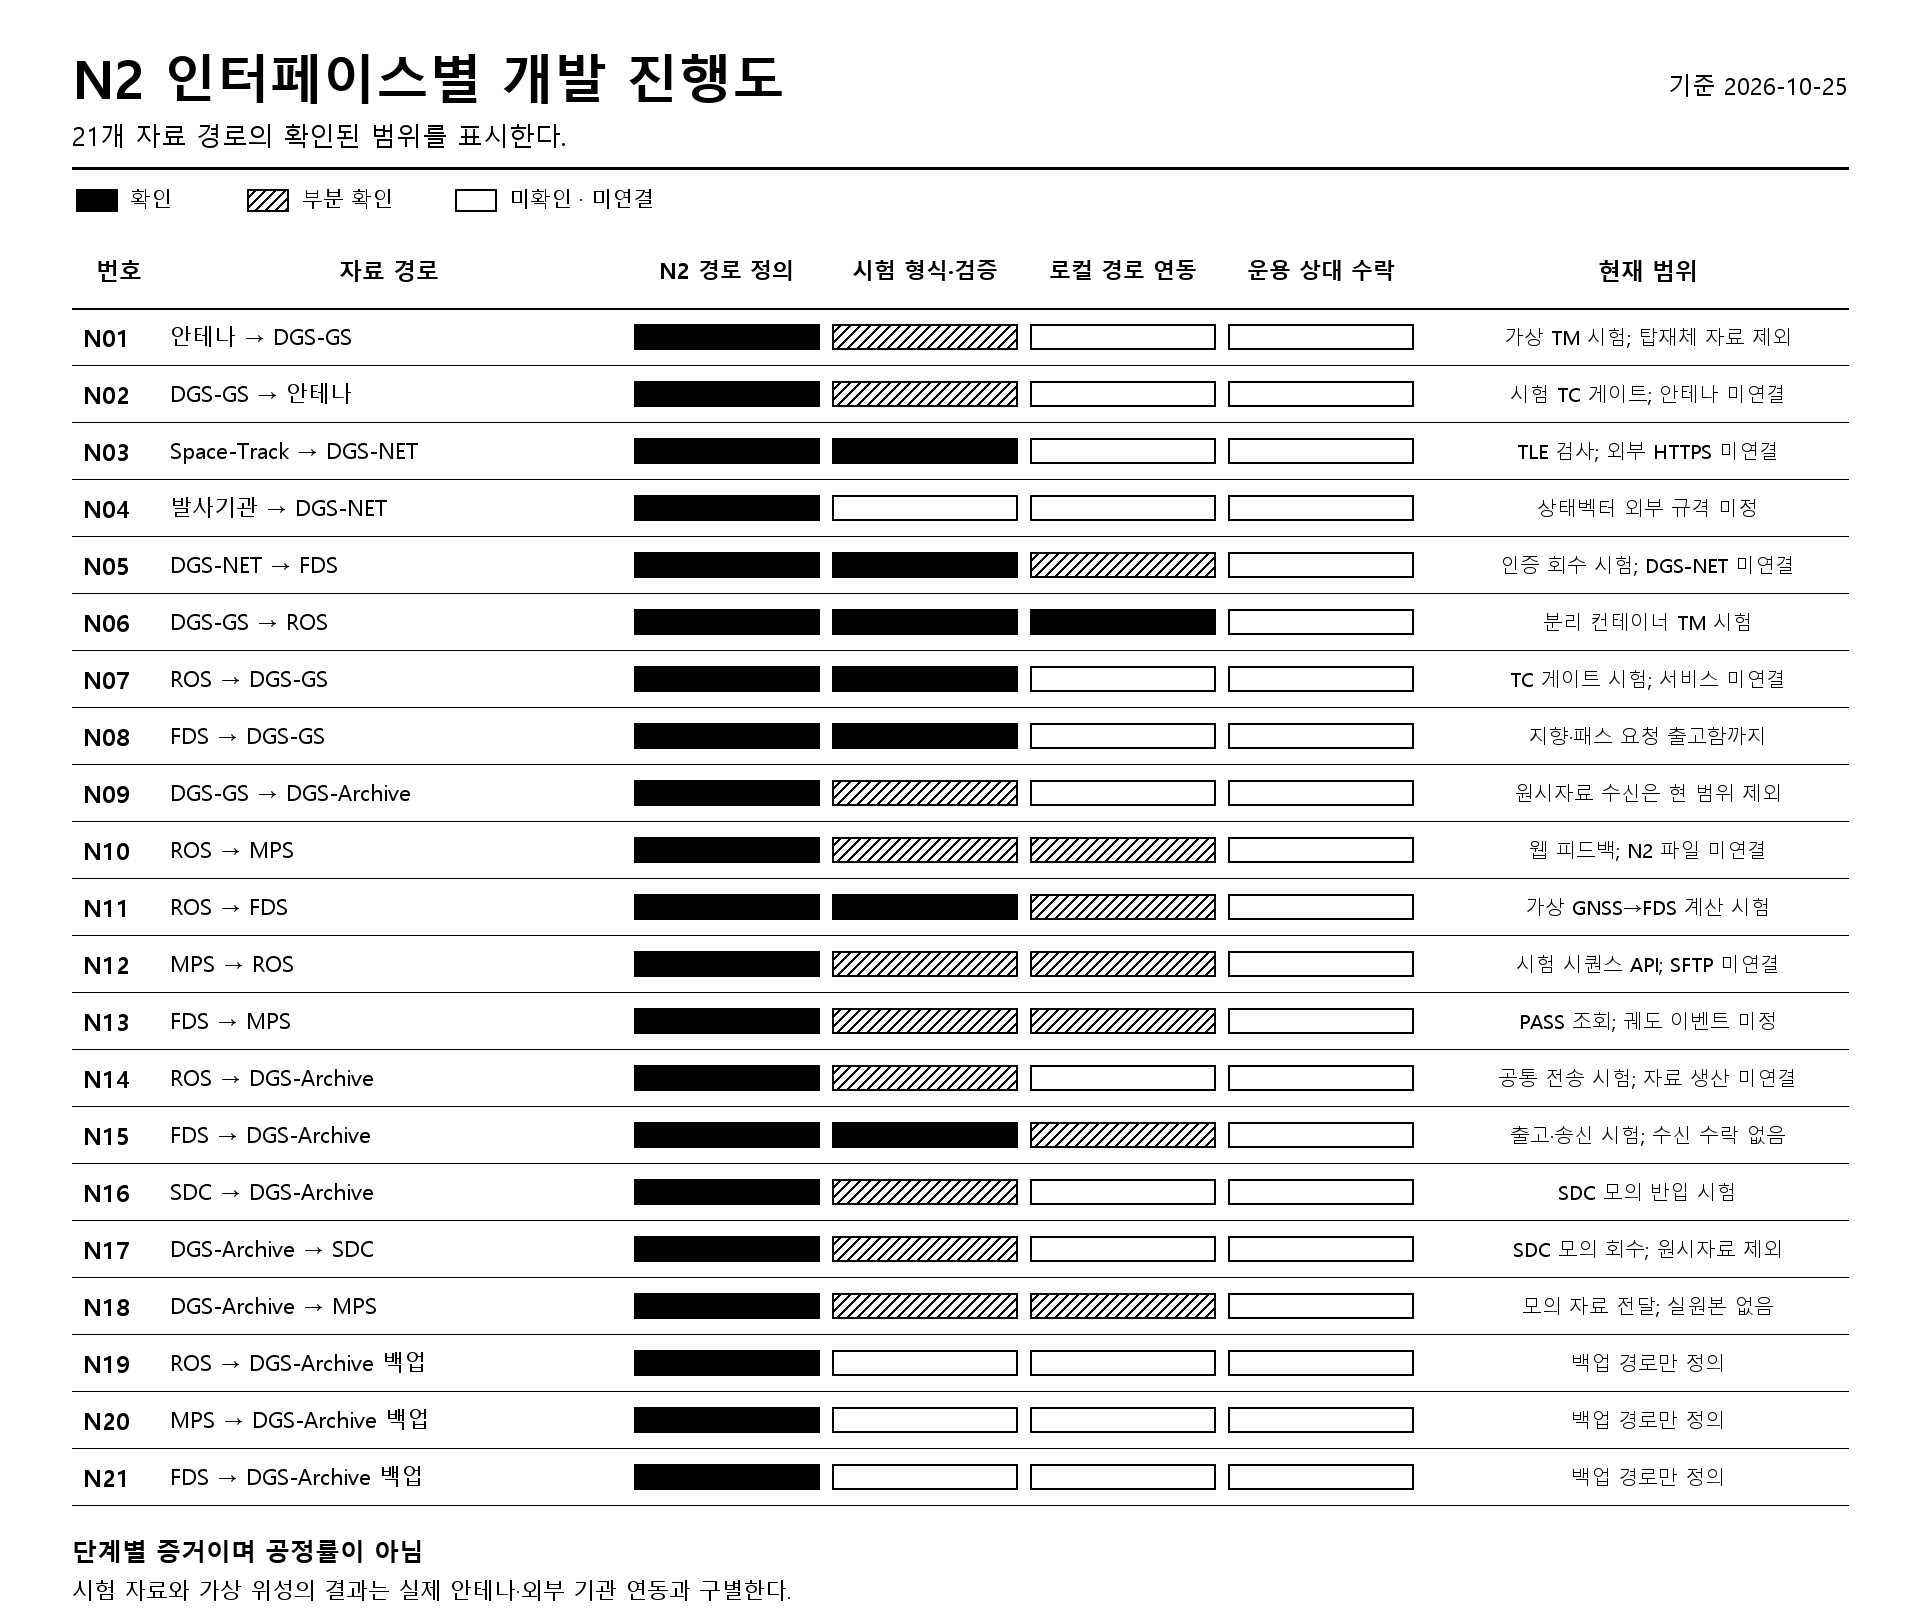
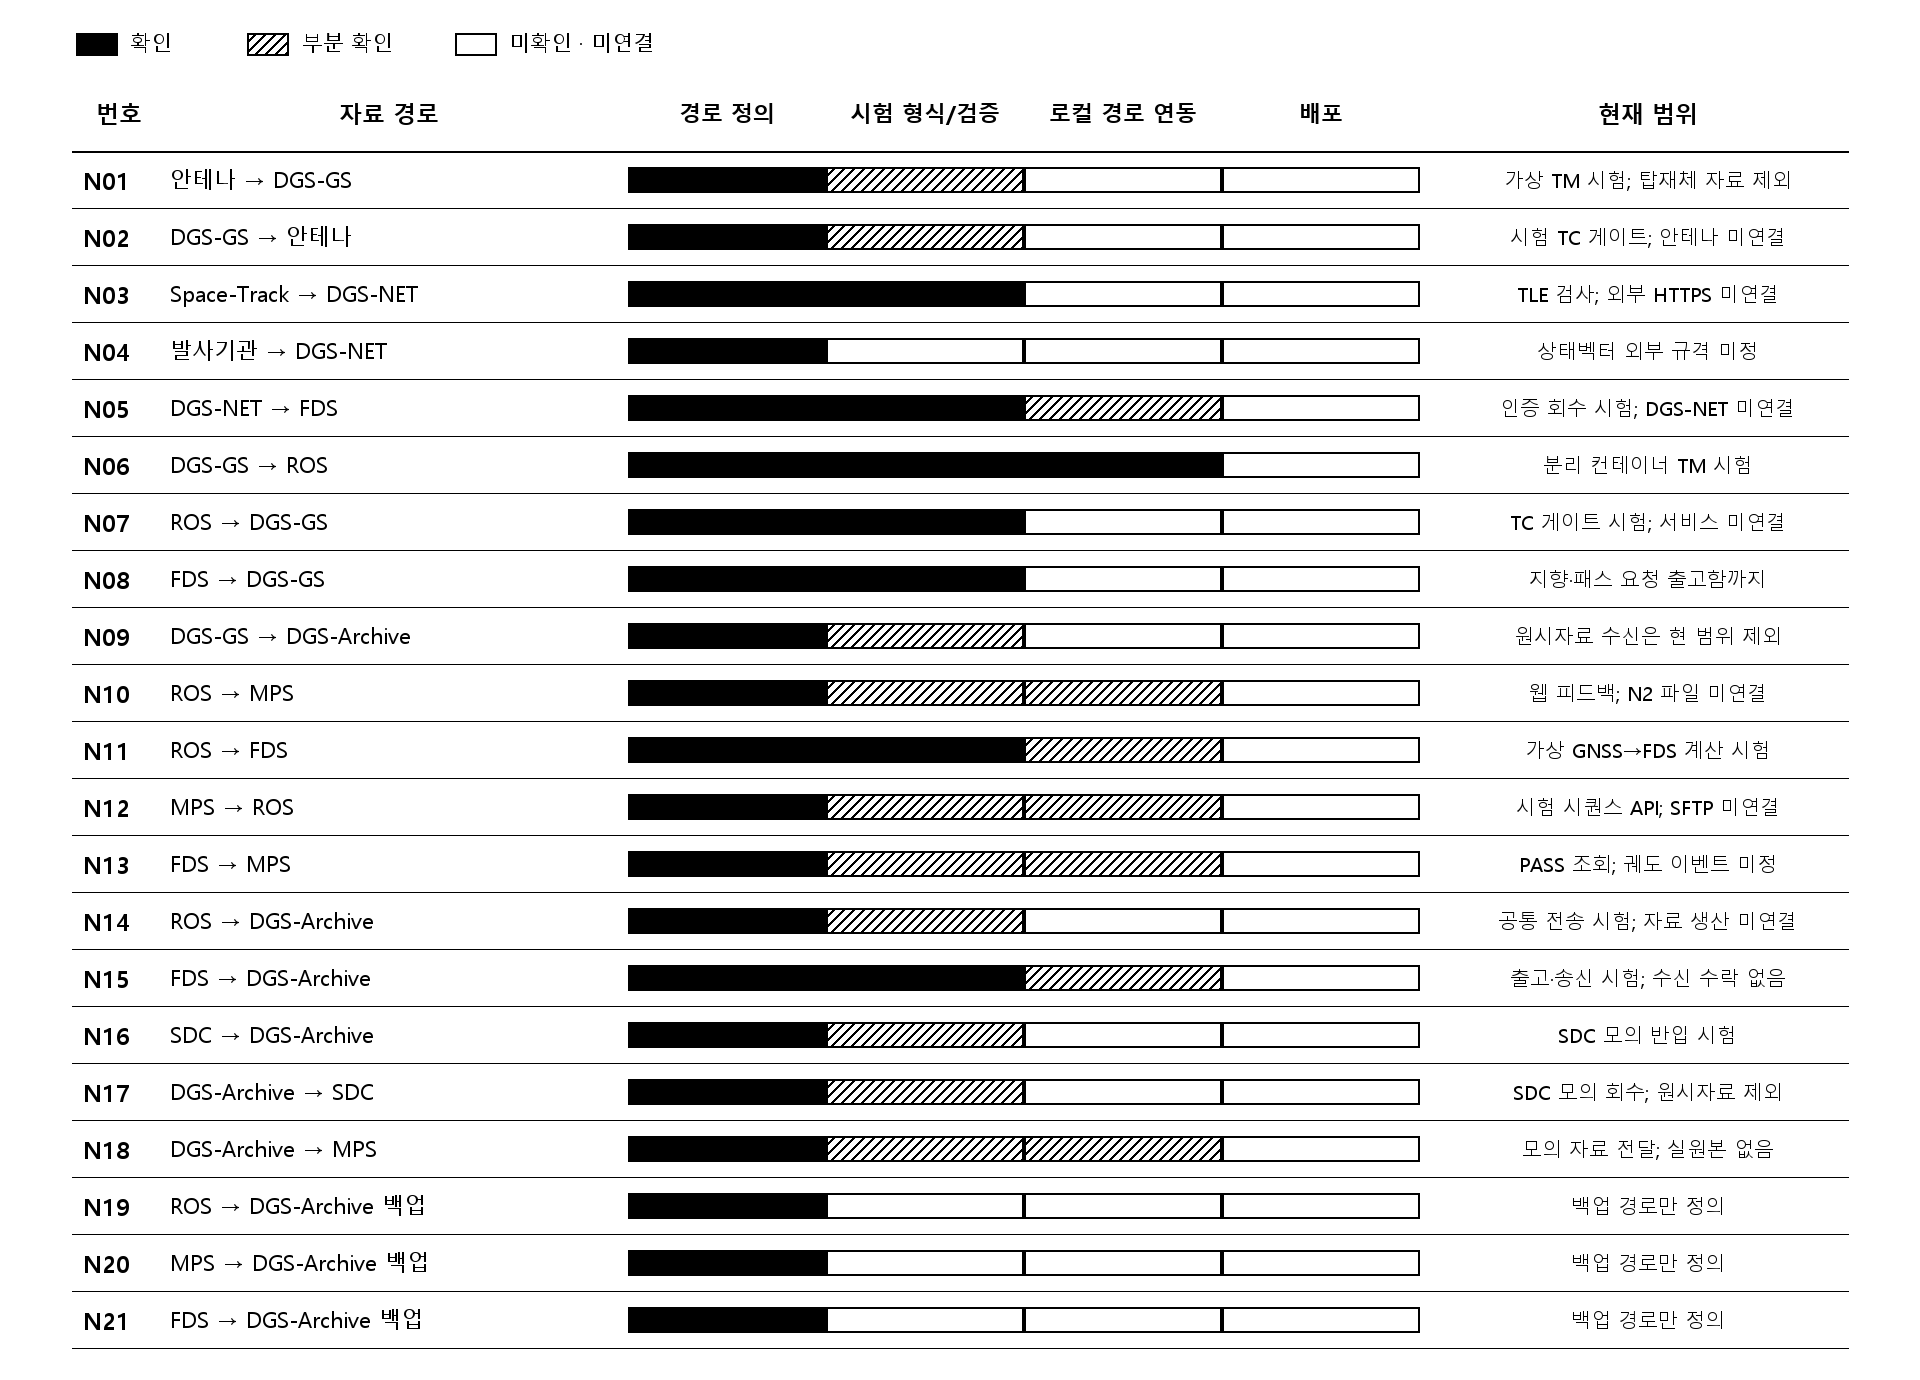
Simplify N2 progress chart layout

Changed region(s): [[0.0312, 0.0, 0.9375, 0.9971], [0.875, 0.0312, 0.9688, 0.0623]]

diff --git a/tools/render_n2_progress.py b/tools/render_n2_progress.py
@@ -17,7 +17,7 @@ SOURCE = ROOT / "interfaces" / "n2_chart.json"
 PROGRESS = ROOT / "docs" / "N2_ICD" / "progress.json"
 OUTPUT = ROOT / "docs" / "N2_ICD" / "N2_개발진행도.png"
 
-WIDTH, HEIGHT = 1920, 1620
+WIDTH, HEIGHT = 1920, 1380
 WHITE = (255, 255, 255)
 BLACK = (0, 0, 0)
 
@@ -146,24 +146,15 @@ def render() -> None:
     note_left, note_right = 1448, right
     cell_width = (bar_right - bar_left) // 4
 
-    draw.text((left, 41), "N2 인터페이스별 개발 진행도",
-              font=font(53, bold=True), fill=BLACK)
-    date_text = f"기준 {progress['as_of']}"
-    date_font = fit_font(draw, date_text, 370, 24)
-    draw.text((right, 68), date_text, font=date_font, fill=BLACK, anchor="ra")
-    draw.text((left, 117), "21개 자료 경로의 확인된 범위를 표시한다.",
-              font=font(26), fill=BLACK)
-    draw.line((left, 168, right, 168), fill=BLACK, width=3)
-
     # The legend remains outside the bars so every glyph is black on white.
-    segment(image, (76, 189, 117, 211), "full")
-    draw.text((130, 184), "확인", font=font(21), fill=BLACK)
-    segment(image, (247, 189, 288, 211), "partial")
-    draw.text((302, 184), "부분 확인", font=font(21), fill=BLACK)
-    segment(image, (455, 189, 496, 211), "none")
-    draw.text((509, 184), "미확인 · 미연결", font=font(21), fill=BLACK)
+    segment(image, (76, 33, 117, 55), "full")
+    draw.text((130, 28), "확인", font=font(21), fill=BLACK)
+    segment(image, (247, 33, 288, 55), "partial")
+    draw.text((302, 28), "부분 확인", font=font(21), fill=BLACK)
+    segment(image, (455, 33, 496, 55), "none")
+    draw.text((509, 28), "미확인 · 미연결", font=font(21), fill=BLACK)
 
-    header_top, row_start = 232, 308
+    header_top, row_start = 76, 151
     draw.line((left, row_start, right, row_start), fill=BLACK, width=2)
     center_label(draw, "번호", (left, header_top, label_left - 4, row_start),
                  size=23, bold=True)
@@ -188,22 +179,16 @@ def render() -> None:
         draw.text((label_left, y_center), row["label"],
                   font=route_font, fill=BLACK, anchor="lm")
         for stage_index, state in enumerate(row["states"]):
-            x0 = bar_left + stage_index * cell_width + 6
-            x1 = bar_left + (stage_index + 1) * cell_width - 7
+            x0 = bar_left + stage_index * cell_width
+            x1 = bar_left + (stage_index + 1) * cell_width - 1
             segment(image, (x0, top + 16, x1, bottom - 16), state)
         center_label(draw, row["note"],
                      (note_left + 3, top + 3, note_right - 3, bottom - 3),
                      size=20, minimum=16, maximum_lines=2)
         draw.line((left, bottom, right, bottom), fill=BLACK, width=1)
 
-    footer_y = row_start + len(progress["rows"]) * row_height + 28
-    draw.text((left, footer_y), "단계별 증거이며 공정률이 아님",
-              font=font(25, bold=True), fill=BLACK)
-    draw.text((left, footer_y + 42),
-              "시험 자료와 가상 위성의 결과는 실제 안테나·외부 기관 연동과 구별한다.",
-              font=font(22), fill=BLACK)
-    if footer_y + 80 >= HEIGHT:
-        raise ValueError("Footer does not fit within the image")
+    if row_start + len(progress["rows"]) * row_height >= HEIGHT:
+        raise ValueError("Rows do not fit within the image")
 
     red, green, blue = image.split()
     if (ImageChops.difference(red, green).getbbox()

diff --git a/docs/N2_ICD/PROGRESS.md b/docs/N2_ICD/PROGRESS.md
@@ -6,12 +6,12 @@
 
 | 칸 | 판정 기준 | 완전 확인 | 일부 확인 | 미확인 |
 |---|---|---:|---:|---:|
-| 1. N2 경로 정의 | 송신자·수신자와 자료 유형을 기록 | 21 | 0 | 0 |
-| 2. 시험 형식·검증 | 해당 자료를 만드는 코드나 형식·무결성 검사를 시험 | 7 | 10 | 4 |
+| 1. 경로 정의 | 송신자·수신자와 자료 유형을 기록 | 21 | 0 | 0 |
+| 2. 시험 형식/검증 | 해당 자료를 만드는 코드나 형식·무결성 검사를 시험 | 7 | 10 | 4 |
 | 3. 로컬 경로 연동 | N2 양 끝단을 로컬 환경에서 연결해 시험 | 1 | 7 | 13 |
-| 4. 운용 상대 수락 | 실제 상대와 운용 규격·연결·수락 시험 완료 | 0 | 0 | 21 |
+| 4. 배포 | 해당 N2 경로를 목표 VM 구성에 연결하고 실제 상대와 수락 시험 완료 | 0 | 0 | 21 |
 
-검정 칸은 해당 단계의 시험 범위가 확인된 경우, 사선 칸은 일부 자료형이나 모의·대체 경로만 확인된 경우다. 빈칸은 아직 확인하지 못했거나 연결하지 않은 경우다. **2·3단계의 확인은 실제 위성·안테나·SDC 운용 승인과 다르다.**
+검정 칸은 해당 단계의 시험 범위가 확인된 경우, 사선 칸은 일부 자료형이나 모의·대체 경로만 확인된 경우다. 빈칸은 아직 확인하지 못했거나 연결하지 않은 경우다. **2·3단계의 확인이나 시험 화면의 배포는 해당 N2 경로의 배포 완료와 다르다.**
 
 N01·N02의 가상 장비 시험은 실제 안테나 연동이 아니다. N09의 원시자료와 S-band payload 수신은 현재 범위에서 제외했다. N10·N12의 웹/API 시험 흐름은 계획된 SFTP 파일 교환을 대체하지 않는다. N13은 접촉 일정 조회만 연결됐고 궤도 이벤트는 미정이다. N19–N21은 백업 방향만 정했으며 Archive 경유 백업 송수신은 시험하지 않았다.
 
